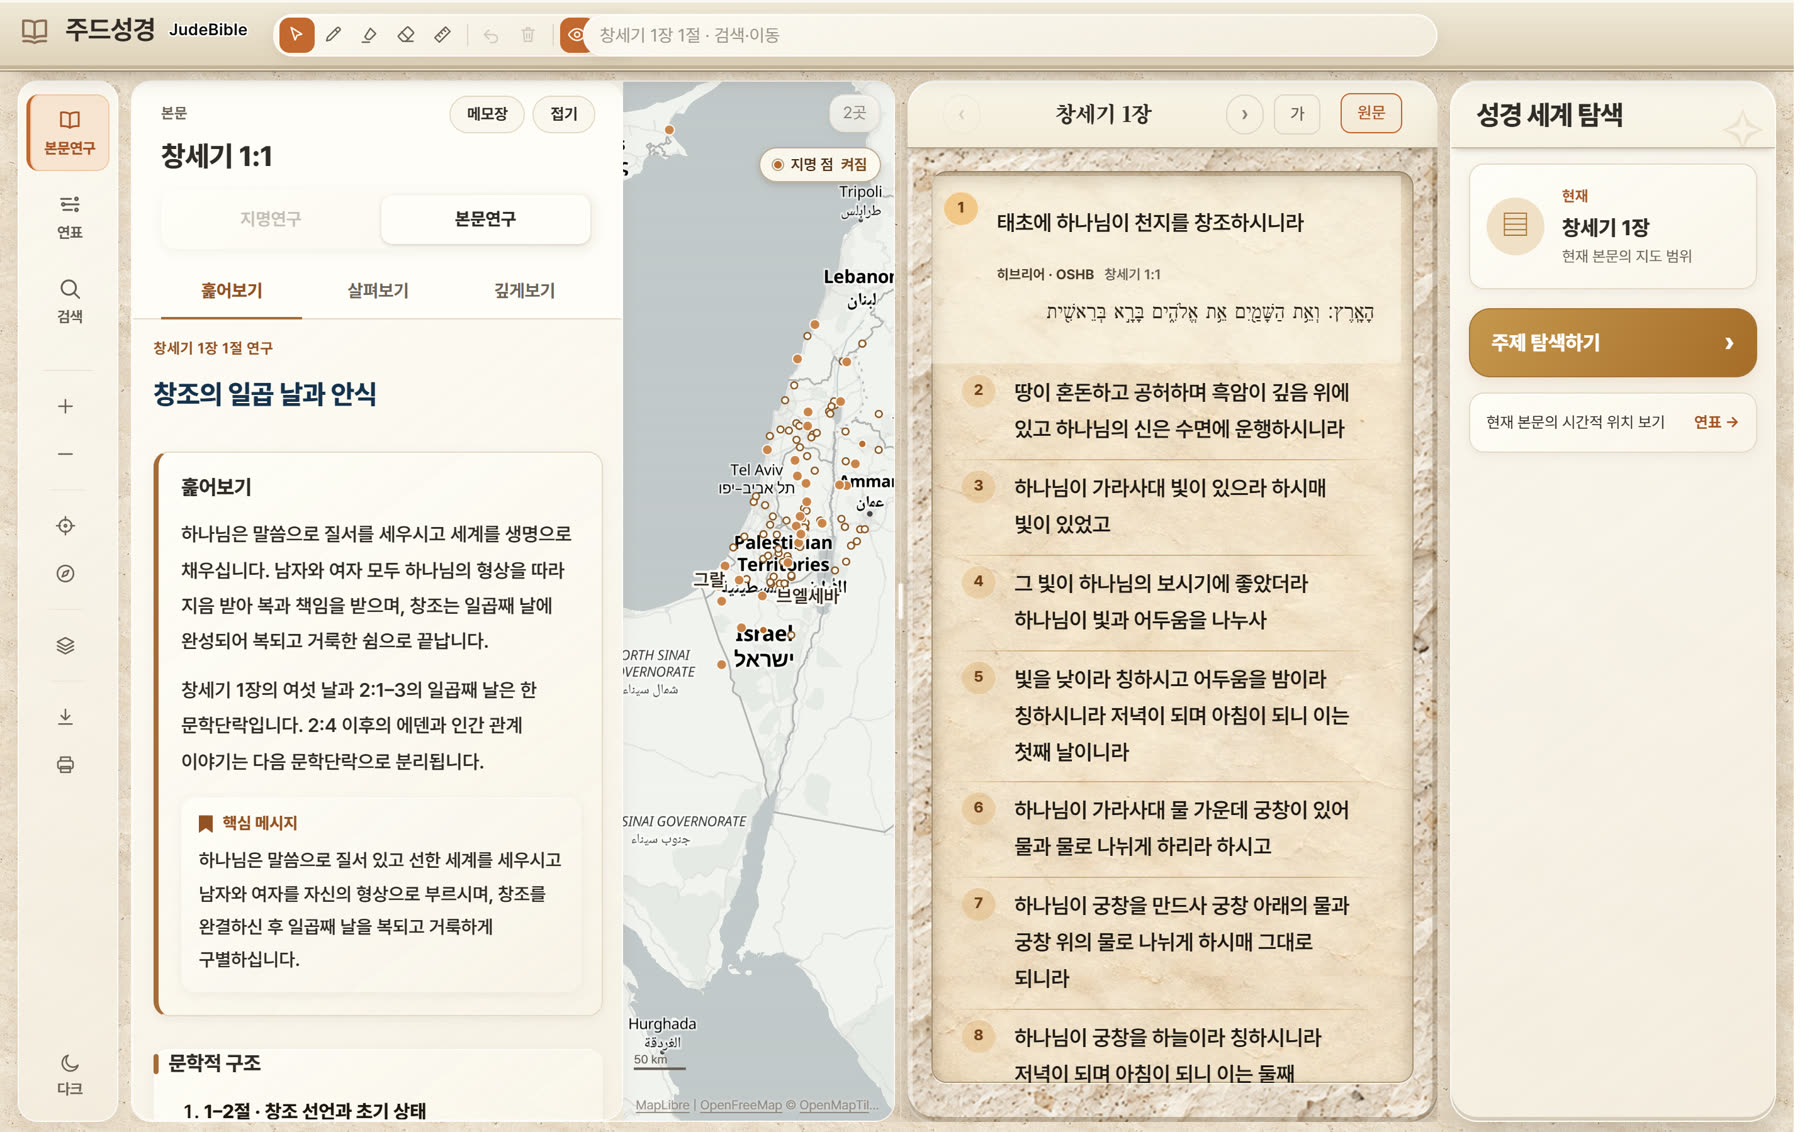
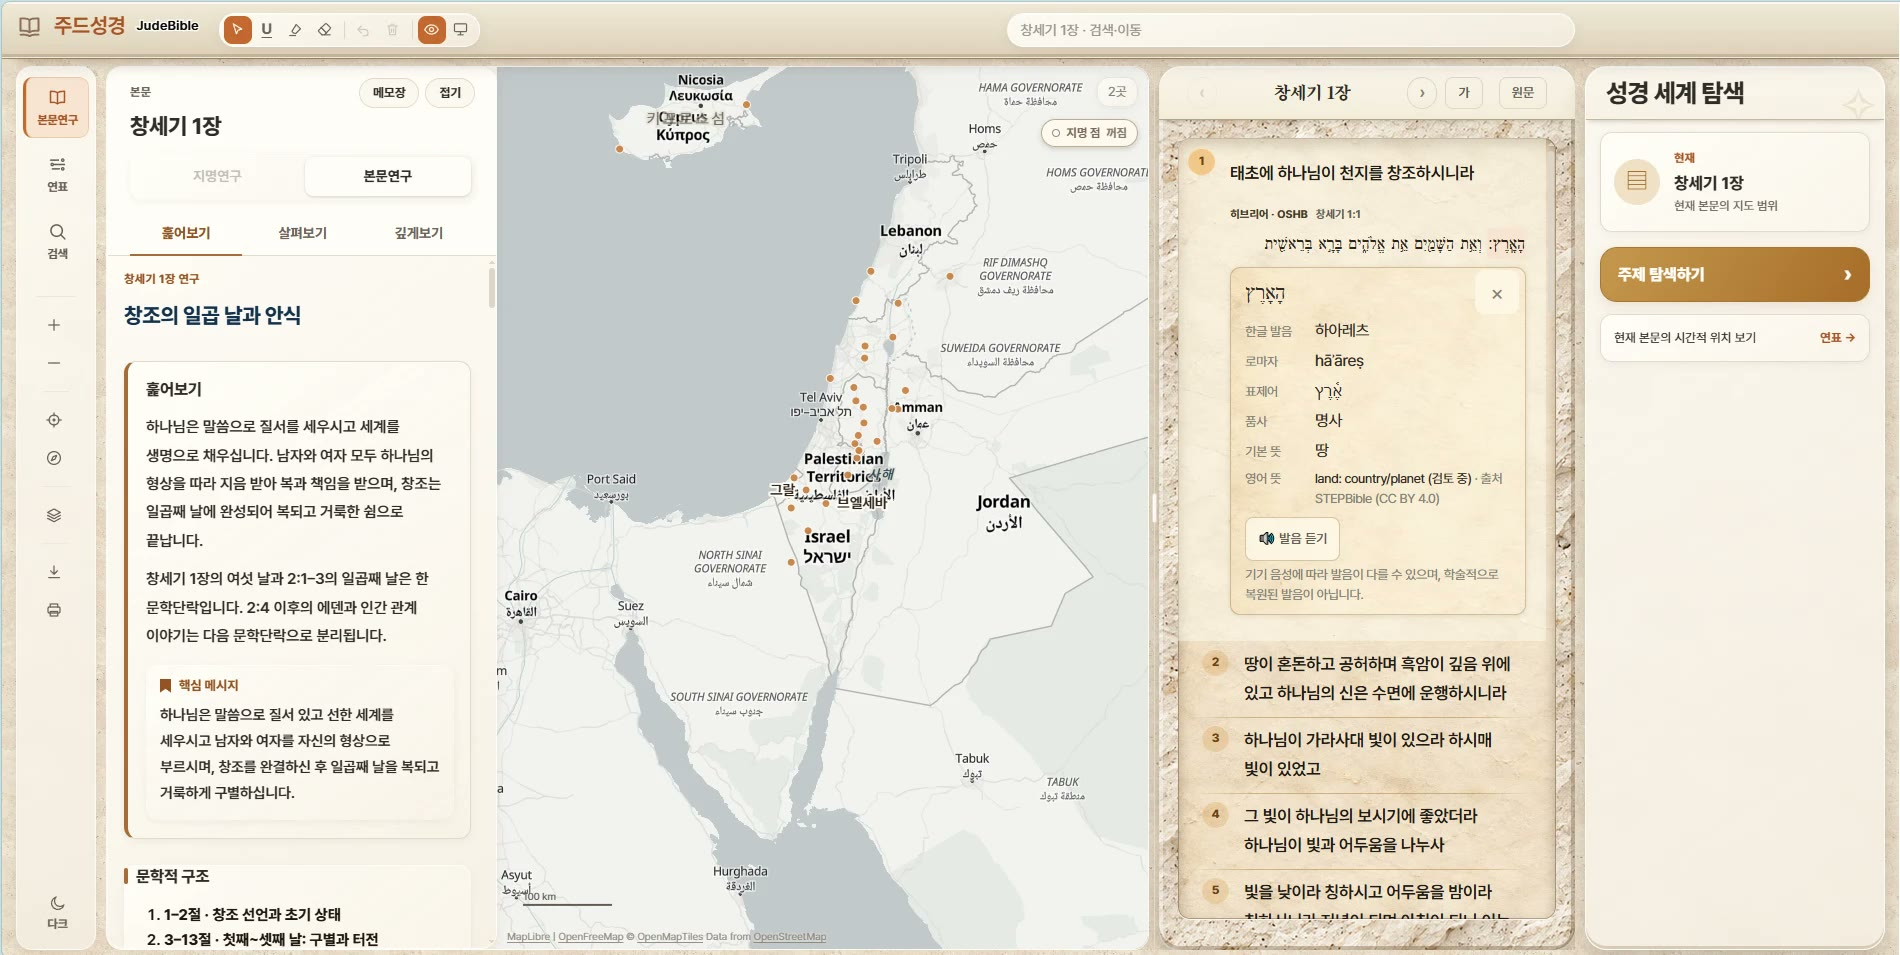
JudeBible: replace hero screenshot with Genesis 1:1 study view

diff --git a/judebible/index.html b/judebible/index.html
@@ -13,8 +13,8 @@
 <meta property="og:description" content="말씀을 읽는 데서, 말씀을 깊이 이해하는 데까지. 본문연구·원문·지도·연표·통합검색을 한 화면에서.">
 <meta property="og:url" content="http://www.malsumforest.com/judebible/">
 <meta property="og:image" content="http://www.malsumforest.com/judebible/app-study.jpg">
-<meta property="og:image:width" content="1800">
-<meta property="og:image:height" content="1134">
+<meta property="og:image:width" content="1900">
+<meta property="og:image:height" content="955">
 <meta name="twitter:card" content="summary_large_image">
 <link rel="icon" href="/favicon.ico" sizes="any">
 <link rel="icon" type="image/png" sizes="32x32" href="/favicon-32x32.png">
@@ -43,7 +43,7 @@
       </div>
     </div>
     <figure class="jb-hero__shot">
-      <img src="./app-study.jpg" width="1800" height="1134" alt="주드성경 화면: 가운데 창세기 1장 본문과 히브리어 원문, 왼쪽에 본문연구 패널, 지도와 성경 세계 탐색 패널">
+      <img src="./app-study.jpg" width="1900" height="955" alt="주드성경 화면: 왼쪽 본문연구 패널, 지도, 가운데 창세기 1장 본문과 히브리어 낱말 풀이, 오른쪽 성경 세계 탐색 패널">
       <figcaption>실제 주드성경 화면 · 창세기 1장 1절 본문연구</figcaption>
     </figure>
   </div>

diff --git a/index.html b/index.html
@@ -496,7 +496,7 @@ a:focus-visible,button:focus-visible,summary:focus-visible{outline:3px solid var
       <p class="body">말씀의 숲에서 읽고 묵상한 본문을, 원문과 지도, 연표와 함께 더 깊이 살펴볼 수 있는 성경 연구 도구입니다.</p>
       <a class="jb-home__btn" href="/judebible/">주드성경 알아보기<span aria-hidden="true">→</span></a>
     </div>
-    <a class="jb-home__shot" href="/judebible/" tabindex="-1" aria-hidden="true"><img src="/judebible/app-study.jpg" width="1800" height="1133" loading="lazy" alt=""></a>
+    <a class="jb-home__shot" href="/judebible/" tabindex="-1" aria-hidden="true"><img src="/judebible/app-study.jpg" width="1900" height="955" loading="lazy" alt=""></a>
   </div>
 </section>
 
